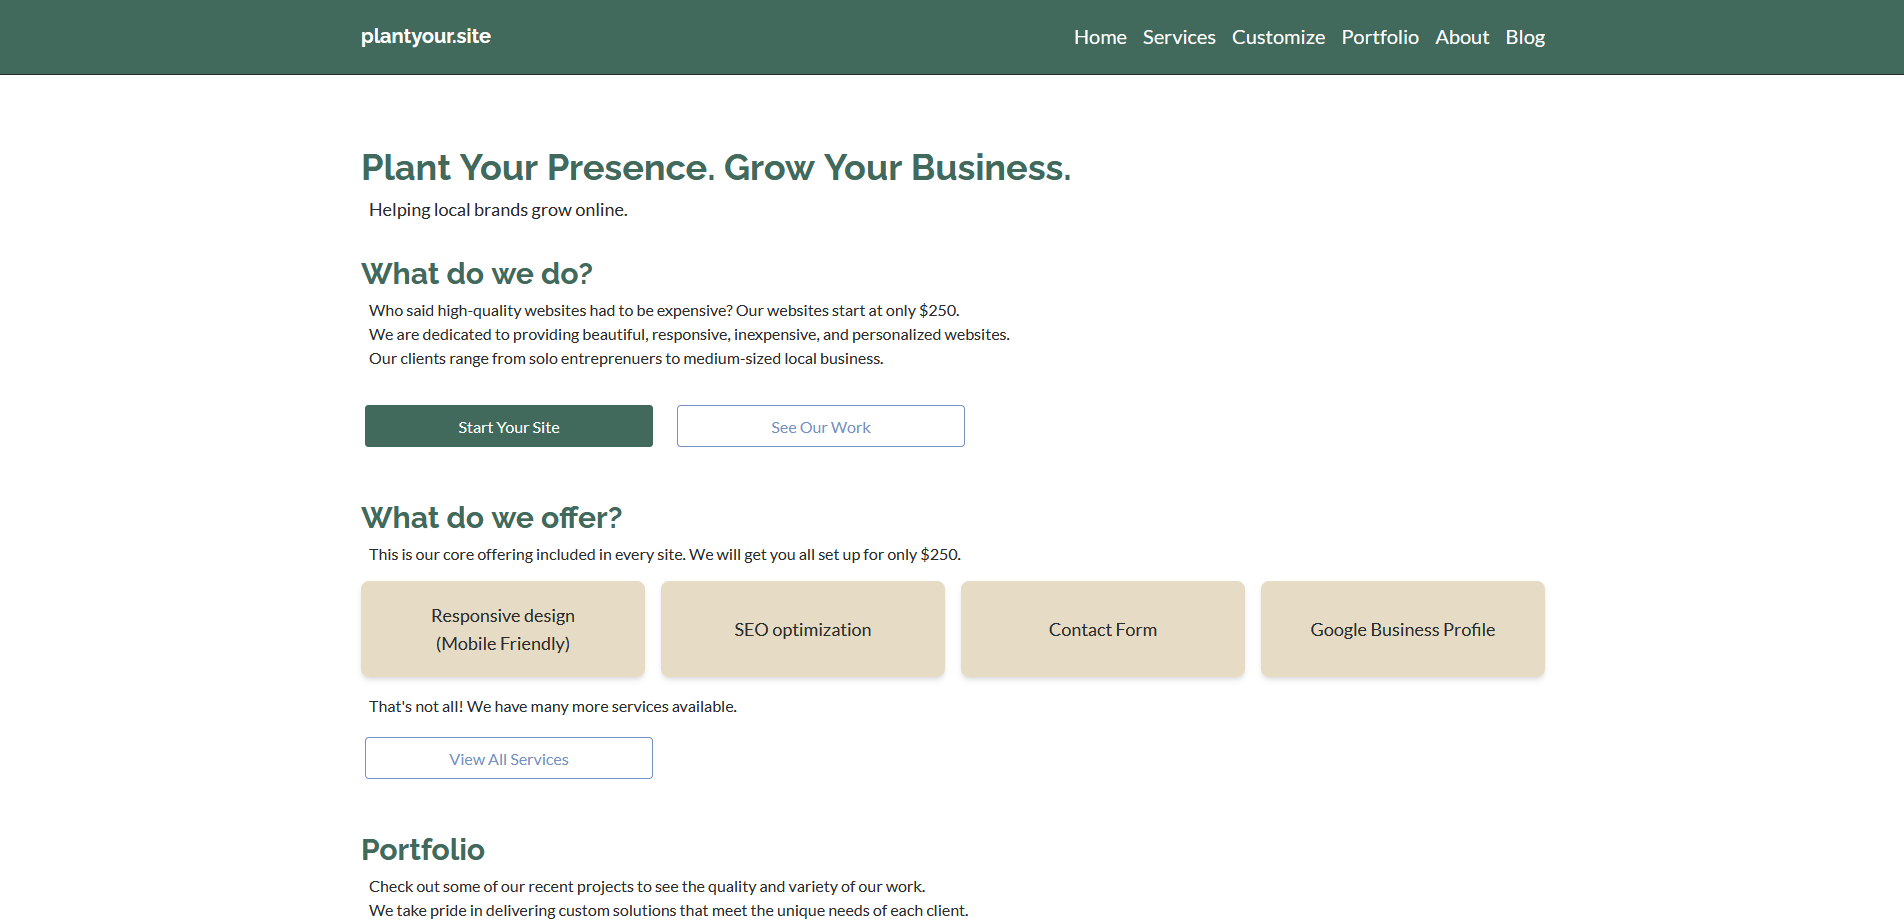
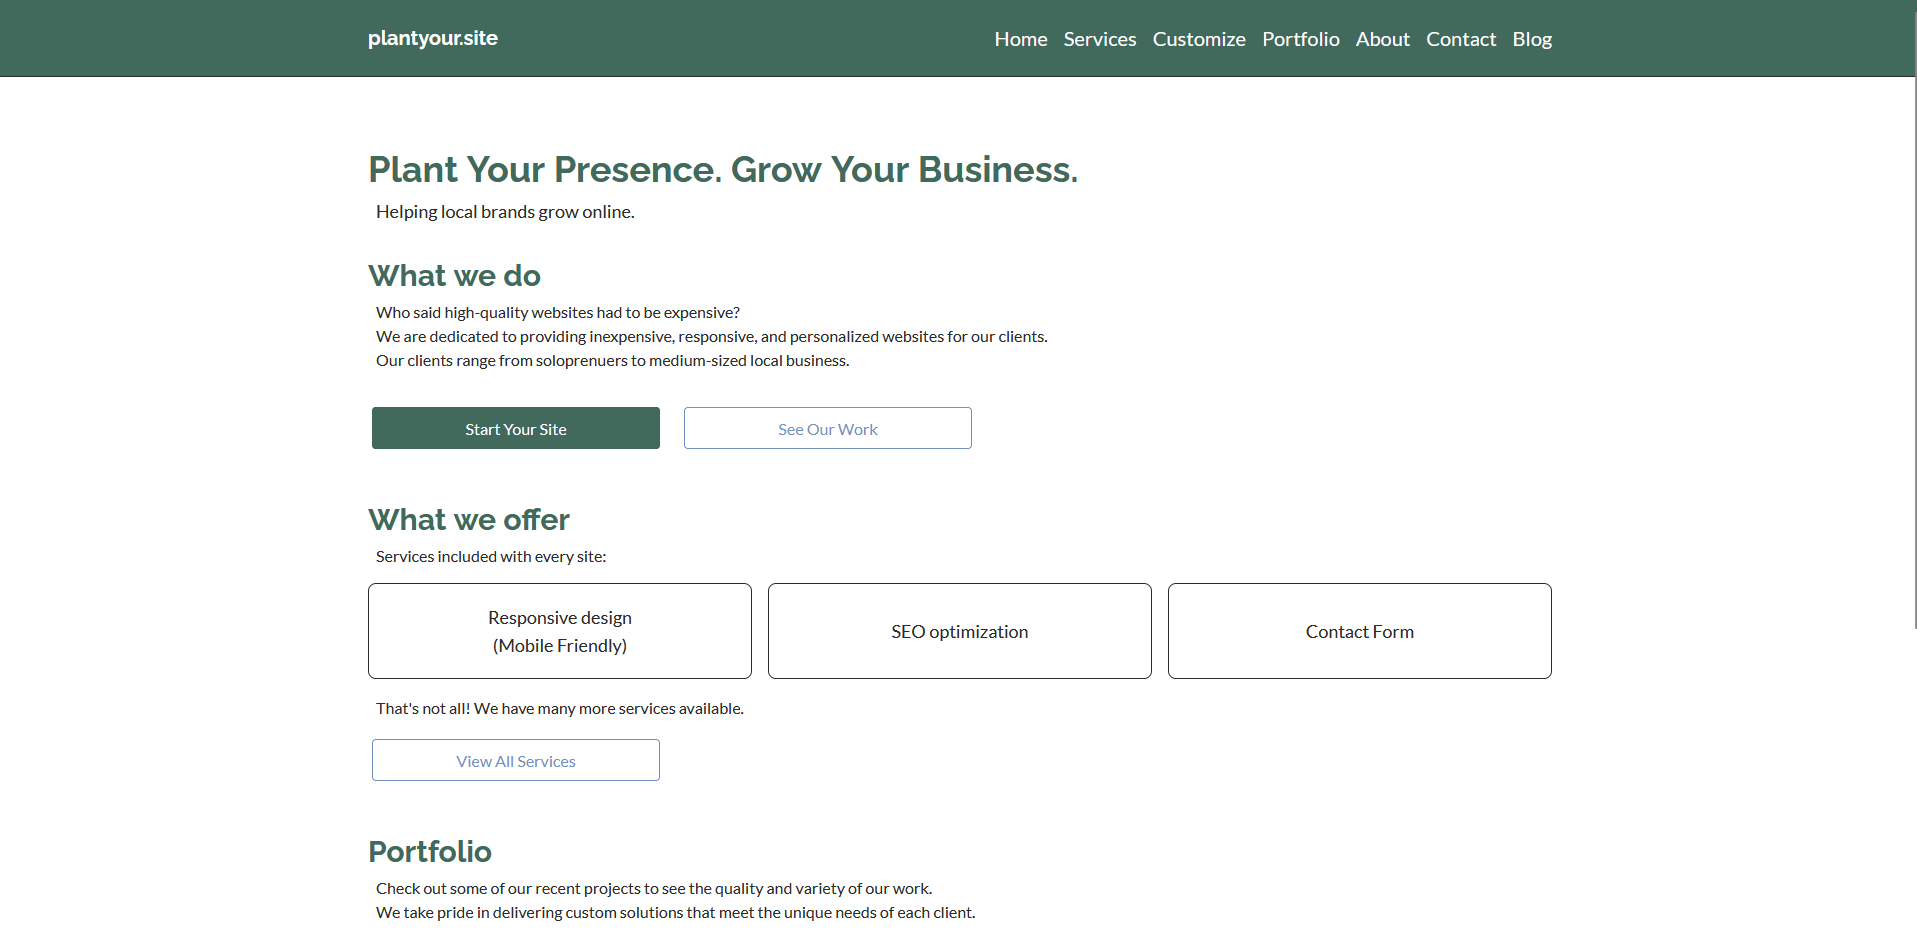
Minor refinements for Version 1.0.0 feat: Rephrased copy to be more consice. fix: refined service card styles on the homepage to be less confused with buttons, and updated placeholder portfolio project image to reflect those changes. - Set project version to 1.0.0. Note: Portfolio page will be built

diff --git a/src/styles/global.css b/src/styles/global.css
@@ -56,7 +56,7 @@
 
 @layer components {
     .service-card {
-        @apply bg-wheat text-lg rounded-lg shadow-md flex justify-center items-center text-center box-border w-full h-12 md:w-1/3 md:h-24;
+        @apply border border-graphite text-lg rounded-lg flex justify-center items-center text-center box-border w-full h-12 md:w-1/3 md:h-24;
     }
 
     .portfolio-card {
